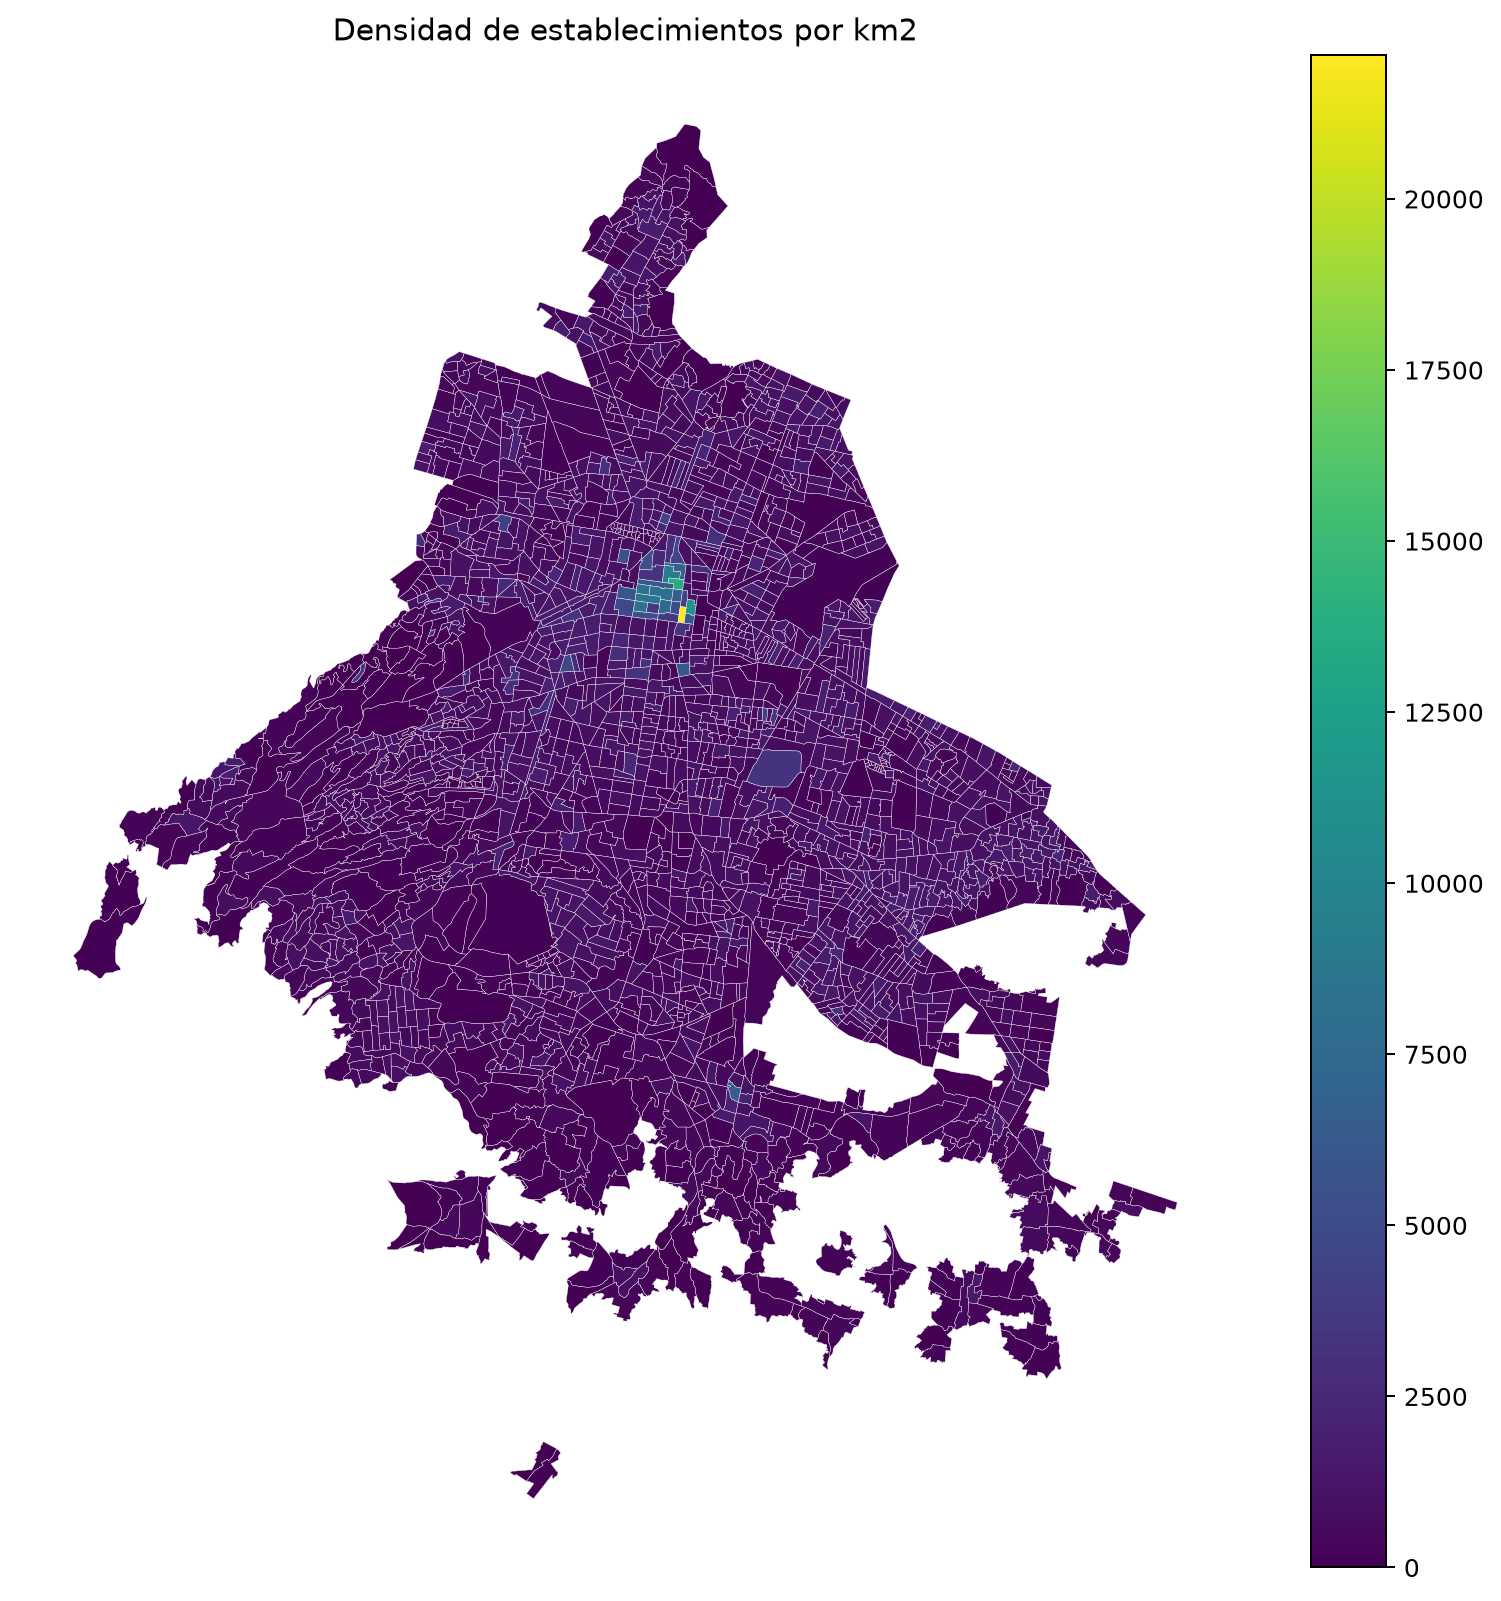
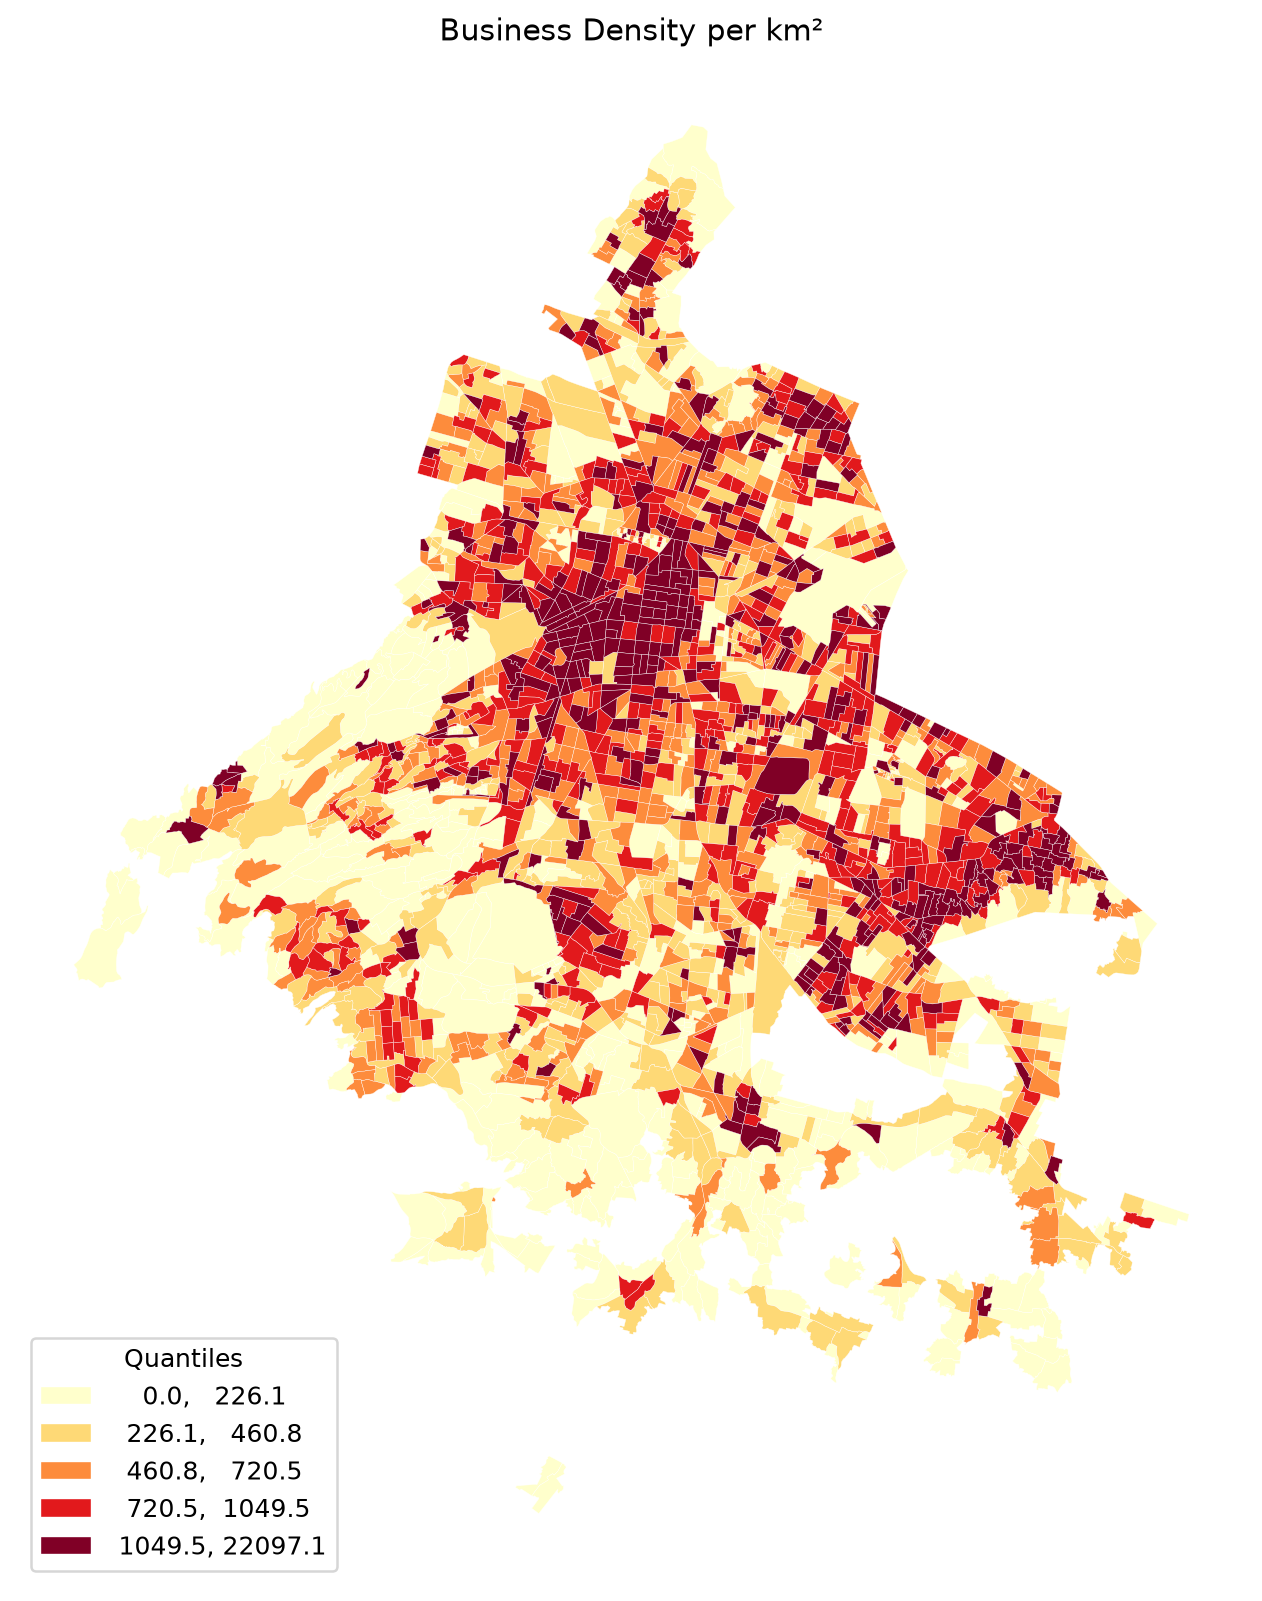
fix: improve spatial map visualization

diff --git a/src/analysis/spatial_analysis.py b/src/analysis/spatial_analysis.py
@@ -83,7 +83,10 @@ def load_kpis():
     ]
 
     for col in numeric_cols:
-        gdf[col] = pd.to_numeric(gdf[col], errors="coerce")
+        gdf[col] = pd.to_numeric(
+            gdf[col],
+            errors="coerce",
+        )
 
     engine.dispose()
 
@@ -101,23 +104,23 @@ def calculate_correlations(gdf):
         (
             "crime_rate_per_1000",
             "business_density",
-            "Tasa de delitos vs densidad de establecimientos",
+            "Crime rate vs business density",
         ),
         (
             "crime_rate_per_1000",
             "population_density",
-            "Tasa de delitos vs densidad de poblacion",
+            "Crime rate vs population density",
         ),
         (
             "business_density",
             "population_density",
-            "Densidad de establecimientos vs densidad de poblacion",
+            "Business density vs population density",
         ),
     ]
 
     results = []
 
-    print("\n=== CORRELACIONES DE SPEARMAN ===")
+    print("\n=== SPEARMAN CORRELATIONS ===")
 
     for x, y, description in relationships:
 
@@ -174,31 +177,41 @@ def build_spatial_weights(gdf):
         "business_density",
     ]
 
-    # Eliminar solamente las observaciones que no tienen los KPI
-    # necesarios para el analisis espacial.
     spatial_gdf = (
-        gdf.dropna(subset=required_variables)
+        gdf.dropna(
+            subset=required_variables
+        )
         .copy()
         .reset_index(drop=True)
     )
 
-    excluded_nulls = len(gdf) - len(spatial_gdf)
+    excluded_nulls = (
+        len(gdf) - len(spatial_gdf)
+    )
 
-    print("\n=== VECINDAD ESPACIAL ===")
-    print(f"AGEB totales: {len(gdf)}")
-    print(f"AGEB excluidas por KPI nulo: {excluded_nulls}")
+    print("\n=== SPATIAL NEIGHBORHOOD ===")
+    print(
+        f"Total AGEBs: {len(gdf)}"
+    )
+    print(
+        f"AGEBs excluded because of NULL KPIs: "
+        f"{excluded_nulls}"
+    )
 
-    # Construccion inicial para detectar islas dentro de la
-    # muestra estadistica valida.
+    # Construccion inicial para detectar islas.
     w_initial = Queen.from_dataframe(
         spatial_gdf,
         use_index=False,
         silence_warnings=True,
     )
 
-    islands = list(w_initial.islands)
+    islands = list(
+        w_initial.islands
+    )
 
-    print(f"Islas Queen: {len(islands)}")
+    print(
+        f"Queen islands: {len(islands)}"
+    )
 
     if islands:
 
@@ -209,7 +222,7 @@ def build_spatial_weights(gdf):
         )
 
         print(
-            "CVEGEO de islas:",
+            "Island CVEGEO:",
             ", ".join(island_codes),
         )
 
@@ -226,7 +239,7 @@ def build_spatial_weights(gdf):
             .reset_index(drop=True)
         )
 
-    # Reconstruir la matriz despues de retirar las islas.
+    # Reconstruir pesos despues de retirar las islas.
     w = Queen.from_dataframe(
         spatial_gdf,
         use_index=False,
@@ -237,25 +250,24 @@ def build_spatial_weights(gdf):
     w.transform = "R"
 
     print(
-        f"AGEB usadas en Moran/LISA: "
+        f"AGEBs used in Moran/LISA: "
         f"{len(spatial_gdf)}"
     )
 
     print(
-        f"Vecinos promedio: "
+        f"Average neighbors: "
         f"{w.mean_neighbors:.2f}"
     )
 
     print(
-        f"Componentes conectados: "
+        f"Connected components: "
         f"{w.n_components}"
     )
 
-    # Comprobacion adicional.
     if w.islands:
         print(
-            "Advertencia: despues del filtrado "
-            f"permanecen {len(w.islands)} islas."
+            "Warning: after filtering, "
+            f"{len(w.islands)} islands remain."
         )
 
     return spatial_gdf, w
@@ -275,16 +287,18 @@ def calculate_global_moran(gdf, w):
 
     results = []
 
-    print("\n=== MORAN GLOBAL ===")
+    print("\n=== GLOBAL MORAN ===")
 
     for indicator in indicators:
 
-        values = gdf[indicator].to_numpy()
+        values = gdf[
+            indicator
+        ].to_numpy()
 
         if np.isnan(values).any():
             raise ValueError(
-                f"{indicator} contiene valores nulos "
-                "despues del filtrado."
+                f"{indicator} contains NULL values "
+                "after filtering."
             )
 
         moran = Moran(
@@ -313,7 +327,9 @@ def calculate_global_moran(gdf, w):
             f"n={len(values)}"
         )
 
-    results_df = pd.DataFrame(results)
+    results_df = pd.DataFrame(
+        results
+    )
 
     results_df.to_csv(
         FIGURES_DIR / "moran_global.csv",
@@ -356,7 +372,10 @@ def calculate_lisa(gdf, w):
     }
 
     result["lisa_cluster"] = [
-        labels.get(q, "NS")
+        labels.get(
+            q,
+            "NS",
+        )
         if p < 0.05
         else "NS"
         for q, p in zip(
@@ -366,8 +385,7 @@ def calculate_lisa(gdf, w):
     ]
 
     print(
-        "\n=== LISA: "
-        "TASA DE DELITOS ==="
+        "\n=== LISA: CRIME RATE ==="
     )
 
     print(
@@ -404,13 +422,13 @@ def calculate_lisa(gdf, w):
         edgecolor="white",
         linewidth=0.15,
         missing_kwds={
-            "label": "Sin datos"
+            "label": "No data"
         },
     )
 
     ax.set_title(
-        "LISA - Tasa de delitos por 1,000 habitantes\n"
-        "Contigüidad Queen, p < 0.05"
+        "LISA - Crime Rate per 1,000 Residents\n"
+        "Queen Contiguity, p < 0.05"
     )
 
     ax.set_axis_off()
@@ -441,8 +459,13 @@ def calculate_bivariate_moran(gdf, w):
     x_name = "crime_rate_per_1000"
     y_name = "business_density"
 
-    x = gdf[x_name].to_numpy()
-    y = gdf[y_name].to_numpy()
+    x = gdf[
+        x_name
+    ].to_numpy()
+
+    y = gdf[
+        y_name
+    ].to_numpy()
 
     moran_bv = Moran_BV(
         x,
@@ -451,11 +474,13 @@ def calculate_bivariate_moran(gdf, w):
         permutations=PERMUTATIONS,
     )
 
-    print("\n=== MORAN BIVARIADO ===")
+    print(
+        "\n=== BIVARIATE MORAN ==="
+    )
 
     print(
-        "Tasa de delitos vs rezago espacial de "
-        "densidad de establecimientos: "
+        "Crime rate vs spatial lag of "
+        "business density: "
         f"I={moran_bv.I:.4f}, "
         f"p_sim={moran_bv.p_sim:.4f}, "
         f"n={len(gdf)}"
@@ -487,27 +512,35 @@ def calculate_bivariate_moran(gdf, w):
 # ---------------------------------------------------------------------
 
 def create_descriptive_maps(gdf):
-    """Genera mapas descriptivos de tres indicadores principales."""
+    """
+    Genera mapas descriptivos de tres indicadores principales.
+
+    Quantile classification is used only for visualization.
+    The original KPI values are not modified and all statistical
+    calculations continue to use the original values.
+    """
 
     variables = [
         (
             "crime_rate_per_1000",
-            "Tasa de delitos por 1,000 habitantes",
+            "Crime Rate per 1,000 Residents",
             "crime_rate_per_1000.png",
         ),
         (
             "business_density",
-            "Densidad de establecimientos por km2",
+            "Business Density per km²",
             "business_density.png",
         ),
         (
             "population_density",
-            "Densidad de poblacion por km2",
+            "Population Density per km²",
             "population_density.png",
         ),
     ]
 
-    print("\n=== MAPAS DESCRIPTIVOS ===")
+    print(
+        "\n=== DESCRIPTIVE MAPS ==="
+    )
 
     for variable, title, filename in variables:
 
@@ -517,12 +550,21 @@ def create_descriptive_maps(gdf):
 
         gdf.plot(
             column=variable,
+            scheme="quantiles",
+            k=5,
+            cmap="YlOrRd",
             legend=True,
             ax=ax,
             edgecolor="white",
             linewidth=0.15,
             missing_kwds={
-                "label": "Sin datos"
+                "color": "lightgrey",
+                "label": "No data",
+            },
+            legend_kwds={
+                "loc": "lower left",
+                "fmt": "{:.1f}",
+                "title": "Quantiles",
             },
         )
 
@@ -544,7 +586,7 @@ def create_descriptive_maps(gdf):
         plt.close(fig)
 
         print(
-            f"Mapa generado: {filename}"
+            f"Map generated: {filename}"
         )
 
 
@@ -563,9 +605,12 @@ def save_analysis_summary(
 
     summary = {
         "total_agebs_dw": len(gdf),
-        "agebs_spatial_analysis": len(spatial_gdf),
+        "agebs_spatial_analysis": len(
+            spatial_gdf
+        ),
         "excluded_from_spatial_analysis": (
-            len(gdf) - len(spatial_gdf)
+            len(gdf)
+            - len(spatial_gdf)
         ),
         "spatial_rule": (
             "Queen de primer orden, "
@@ -573,18 +618,27 @@ def save_analysis_summary(
         ),
         "permutations": PERMUTATIONS,
         "significance_level_lisa": 0.05,
-        "correlations_calculated": len(correlations),
-        "global_moran_indicators": len(global_moran),
-        "bivariate_moran_calculated": len(bivariate_moran),
+        "correlations_calculated": len(
+            correlations
+        ),
+        "global_moran_indicators": len(
+            global_moran
+        ),
+        "bivariate_moran_calculated": len(
+            bivariate_moran
+        ),
         "note": (
-            "La asociacion espacial y las correlaciones "
-            "no implican causalidad."
+            "La asociacion espacial y las "
+            "correlaciones no implican causalidad."
         ),
     }
 
     summary_df = pd.DataFrame(
         list(summary.items()),
-        columns=["metric", "value"],
+        columns=[
+            "metric",
+            "value",
+        ],
     )
 
     summary_df.to_csv(
@@ -599,7 +653,9 @@ def save_analysis_summary(
 
 def main():
 
-    np.random.seed(RANDOM_SEED)
+    np.random.seed(
+        RANDOM_SEED
+    )
 
     print(
         "=== ANALISIS ESPACIAL - FASE 3 ==="
